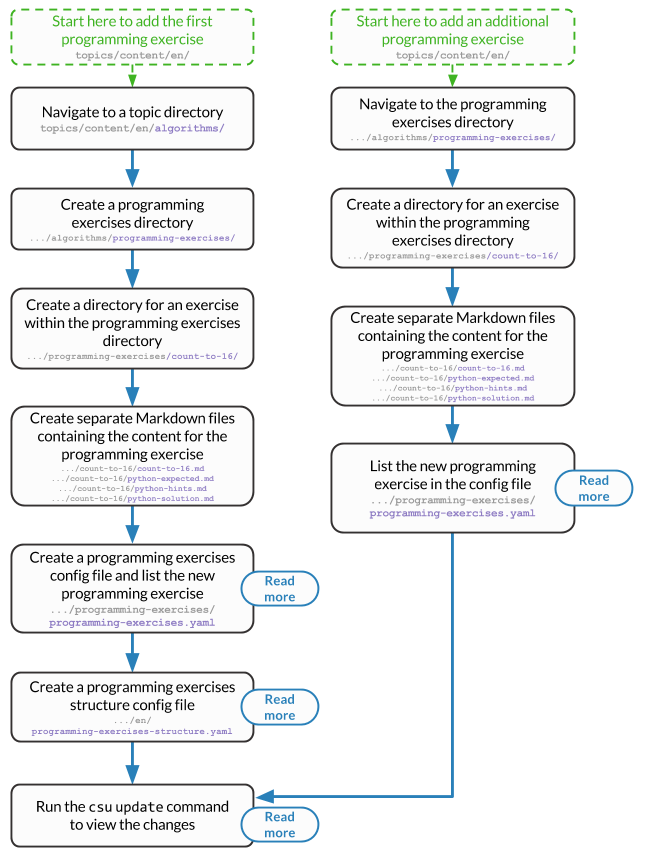
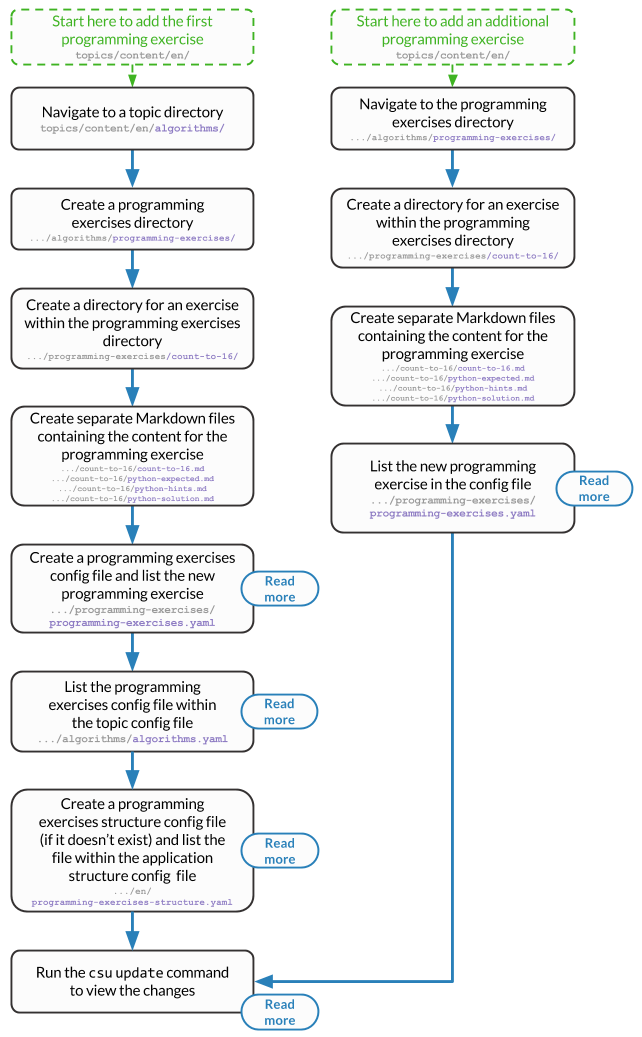
Update programming exercise flowchart

Changed region(s): [[0.0, 0.0, 0.9969, 0.9988]]

diff --git a/docs/source/author/topics.rst b/docs/source/author/topics.rst
@@ -198,8 +198,9 @@ Adding a Programming Exercise
   <map name="programming-exercises-map">
     <area shape="rect" coords="554,470,633,505" href="#programming-exercises-configuration-file">
     <area shape="rect" coords="240,572,317,605" href="#programming-exercises-configuration-file">
-    <area shape="rect" coords="240,690,317,725" href="#programming-exercises-structure-configuration-file">
-    <area shape="rect" coords="240,807,317,841" href="../getting_started/helper_commands.html#update">
+    <area shape="rect" coords="240,694,317,727" href="#topic-configuration-file">
+    <area shape="rect" coords="240,833,317,867" href="#programming-exercises-structure-configuration-file">
+    <area shape="rect" coords="240,995,317,1030" href="../getting_started/helper_commands.html#update">
   </map>
   <img src="../_static/img/topics_adding_programming_exercises_flowchart.png" usemap="#programming-exercises-map">
 
